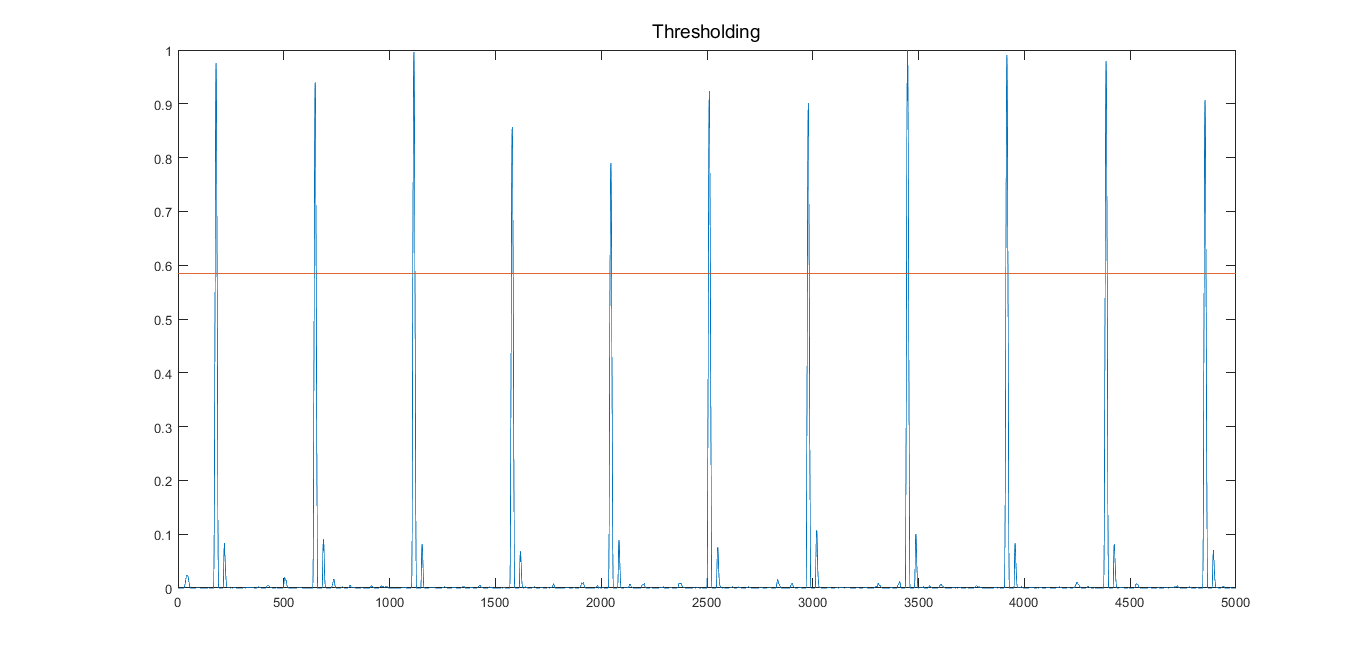
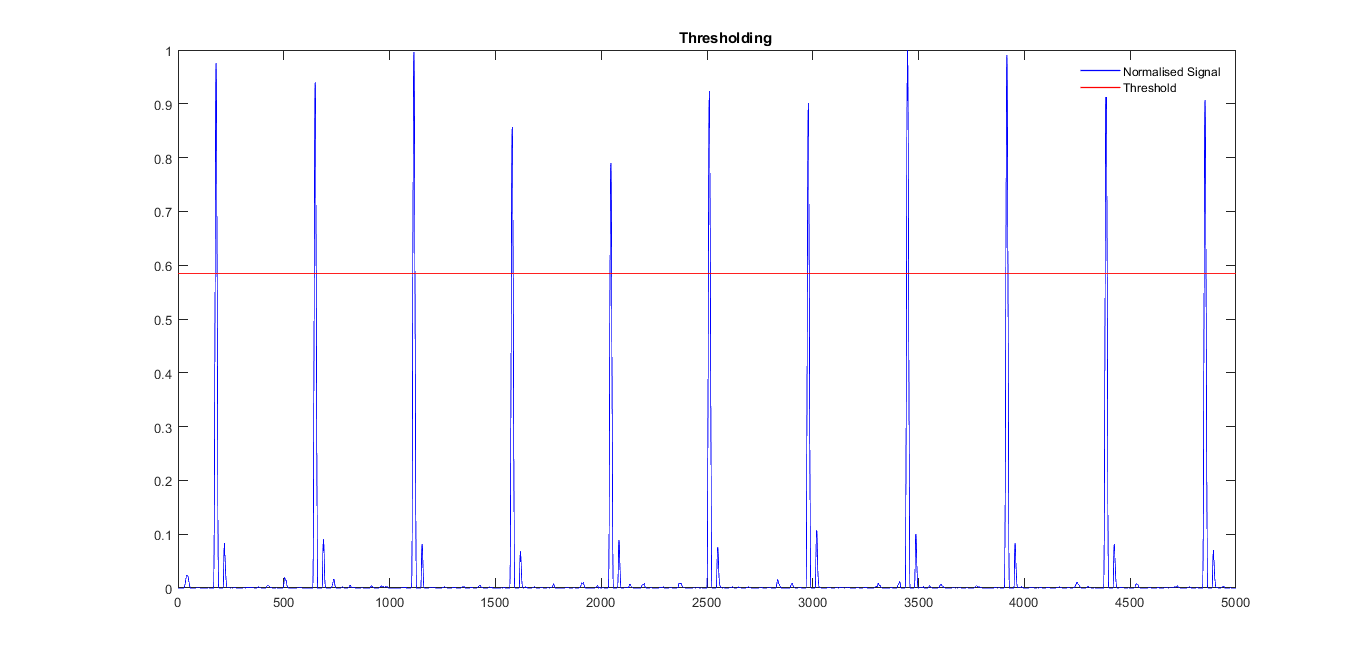
updating image

diff --git a/main.m b/main.m
@@ -8,11 +8,11 @@ threshold = calculateThreshold(indicator);            % Estimating Threshold Ada
 RPeaks    = locateRPeaks(threshold,indicator,signal); % Detection of Rpeaks
 
 figure(1)
-plot(indicator)
+plot(indicator,'b','LineWidth',1)
 hold on
-plot(zeros(1,length(indicator))+threshold)
-
-sgtitle('         Thresholding')
+plot(zeros(1,length(indicator))+threshold,'r','LineWidth',1)
+legend('Normalised Signal','Threshold')
+title('         Thresholding')
 
 figure(2)
 subplot(2,1,1)
